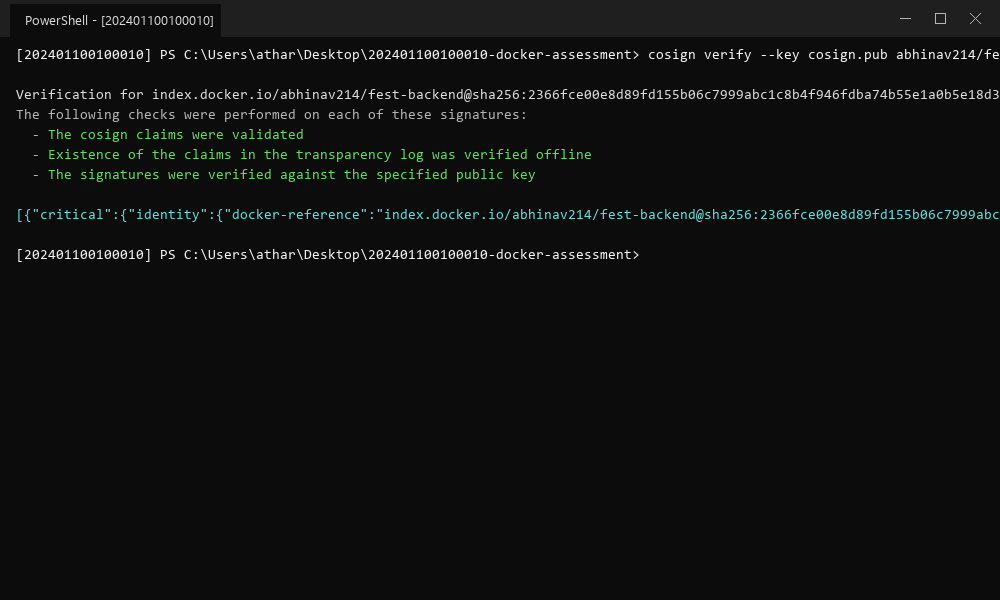
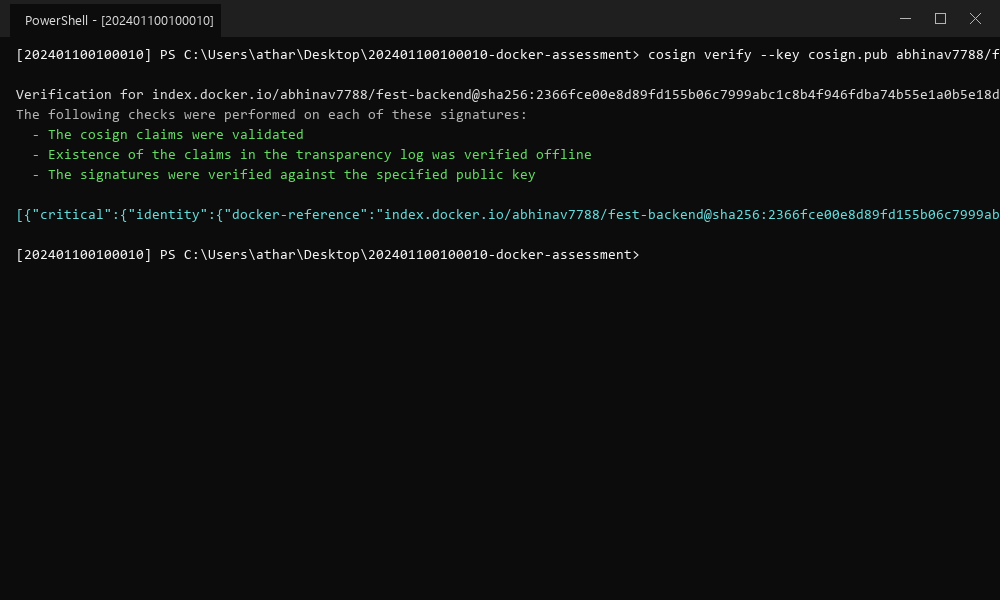
Update Docker Hub handle to abhinav7788 and refresh evidence

diff --git a/frontend/index.html b/frontend/index.html
@@ -53,3 +53,4 @@ refresh();
 </script>
 </body>
 </html>
+

diff --git a/backend/app.py b/backend/app.py
@@ -105,3 +105,4 @@ if __name__ == "__main__":
     # Exit promptly on `docker stop` instead of waiting to be killed.
     signal.signal(signal.SIGTERM, lambda *_: sys.exit(0))
     app.run(host="0.0.0.0", port=5000)
+

diff --git a/README.md b/README.md
@@ -5,8 +5,8 @@
 - **Class:** CS - A
 - **Registration Number:** 202401100100010
 - **Assigned Port:** 8010 (calculated using rule: 80 + last 2 digits of REGNO -> 80 + 10 = 8010)
-- **Docker Hub Username:** abhinav214
-- **Docker Hub Link:** https://hub.docker.com/r/abhinav214/fest-backend
+- **Docker Hub Username:** abhinav7788
+- **Docker Hub Link:** https://hub.docker.com/r/abhinav7788/fest-backend
 
 ---
 
